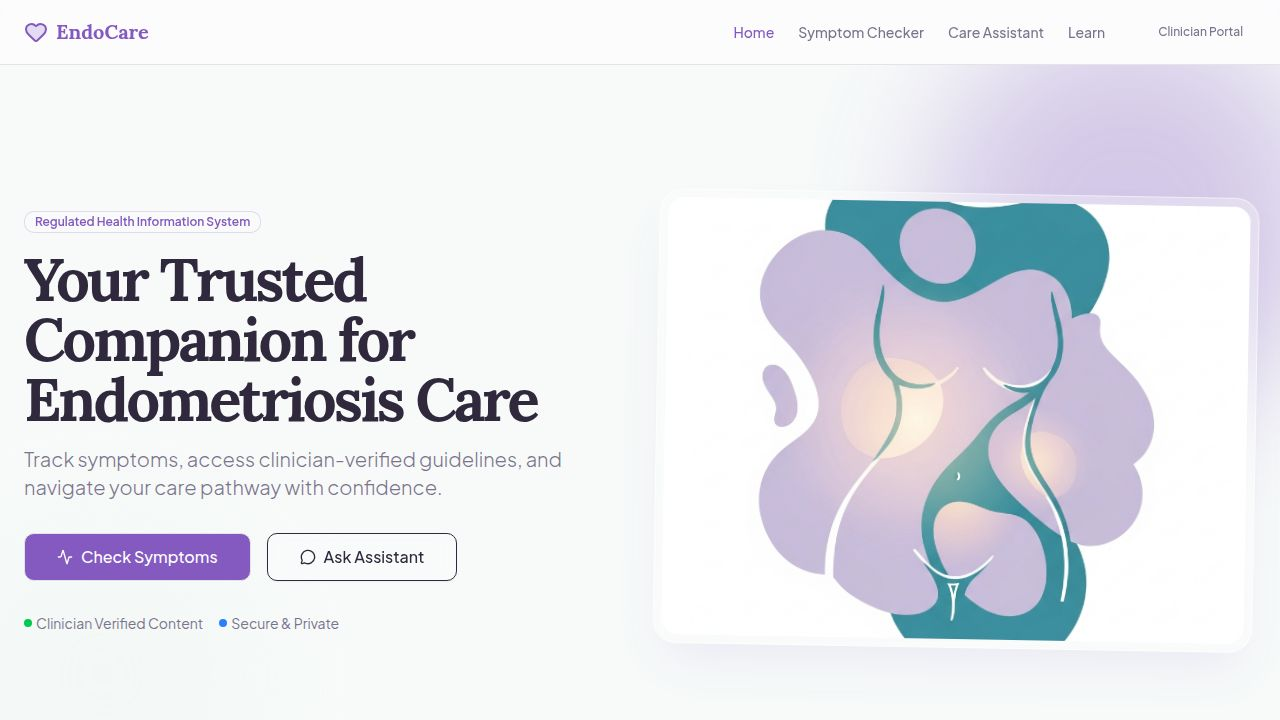
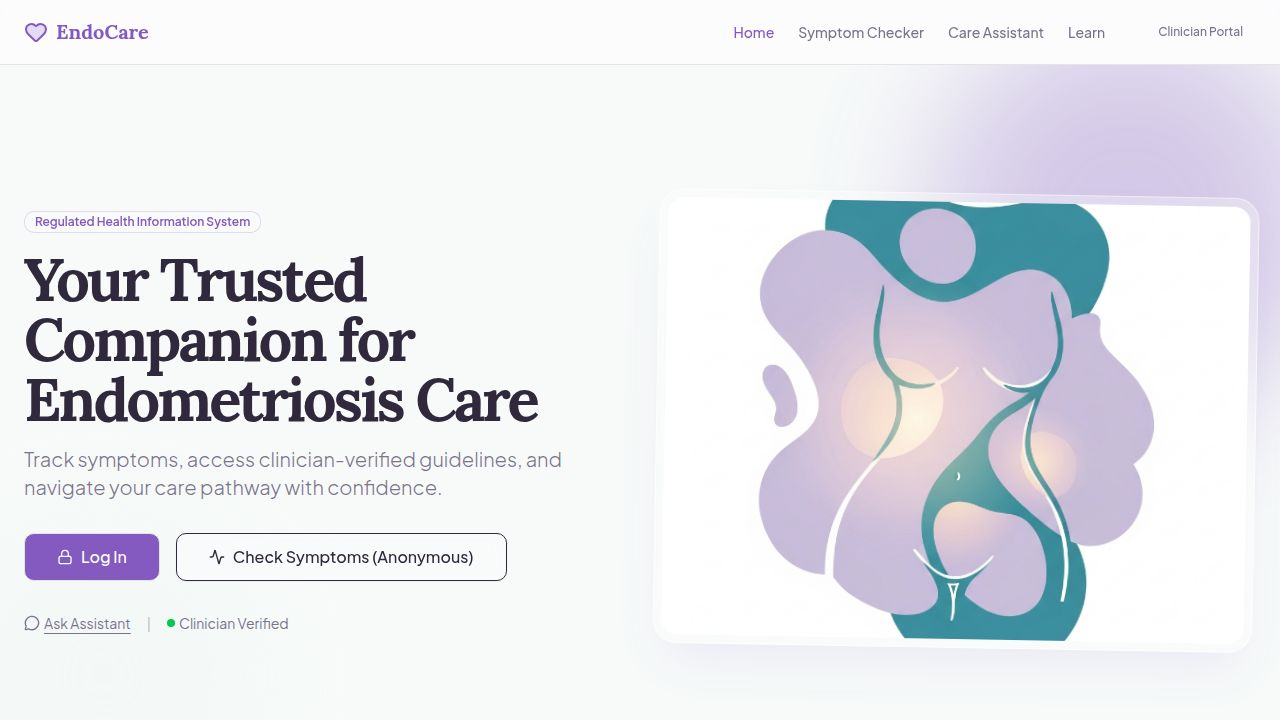
Update clinician dashboard to focus on content and patient insights
Remove symptom calendar and GP summary, add a chart for most asked AI topics, and update content governance to include website URLs.

Replit-Commit-Author: Agent
Replit-Commit-Session-Id: 94342c9f-cecd-45cb-8c7e-70c3b24a7c3e
Replit-Commit-Checkpoint-Type: full_checkpoint
Replit-Commit-Event-Id: 3dba33ec-a466-4213-8505-4dd0c46dcd30
Replit-Commit-Screenshot-Url: https://storage.googleapis.com/screenshot-production-us-central1/f57d9400-adc5-46e2-a29b-3086c1e1310c/94342c9f-cecd-45cb-8c7e-70c3b24a7c3e/vmOWVS5
Replit-Helium-Checkpoint-Created: true

Changed region(s): [[0.0312, 0.7333, 0.375, 0.825], [0.0, 0.8556, 0.2812, 0.8861]]

diff --git a/client/src/pages/dashboard.tsx b/client/src/pages/dashboard.tsx
@@ -12,20 +12,22 @@ import {
   Tooltip, 
   ResponsiveContainer,
   LineChart,
-  Line
+  Line,
+  Cell,
+  BarChart,
+  Bar
 } from "recharts";
-import { AlertCircle, FileText, CheckCircle2, Clock, Upload, Filter, Plus, ShieldCheck, History } from "lucide-react";
-import { SymptomCalendar } from "@/components/symptom-calendar";
-import { GPSummaryGenerator } from "@/components/gp-summary";
+import { AlertCircle, FileText, CheckCircle2, Clock, Upload, Filter, Plus, ShieldCheck, History, Globe, Link as LinkIcon, HelpCircle } from "lucide-react";
+import { Input } from "@/components/ui/input";
+import { Label } from "@/components/ui/label";
+import { Dialog, DialogContent, DialogDescription, DialogFooter, DialogHeader, DialogTitle, DialogTrigger } from "@/components/ui/dialog";
 
-const DATA_SYMPTOMS = [
-  { name: "Mon", pain: 4, queries: 12 },
-  { name: "Tue", pain: 3, queries: 19 },
-  { name: "Wed", pain: 7, queries: 25 },
-  { name: "Thu", pain: 5, queries: 18 },
-  { name: "Fri", pain: 6, queries: 22 },
-  { name: "Sat", pain: 8, queries: 15 },
-  { name: "Sun", pain: 6, queries: 10 },
+const DATA_TOPICS = [
+  { name: "Pain Mgmt", count: 45 },
+  { name: "Diet", count: 32 },
+  { name: "Fertility", count: 28 },
+  { name: "Surgery", count: 15 },
+  { name: "Diagnosis", count: 12 },
 ];
 
 const REVIEW_QUEUE = [
@@ -38,7 +40,7 @@ const CONTENT_CORPUS = [
   { id: "C-001", title: "Endometriosis: Diagnosis and Management (NG73)", version: "2.4", lastUpdated: "2025-11-15", status: "Published", type: "Guideline" },
   { id: "C-002", title: "ESHRE Guideline: Endometriosis", version: "2022.1", lastUpdated: "2023-02-10", status: "Published", type: "Guideline" },
   { id: "C-003", title: "Pelvic Pain Management Pathways", version: "1.2", lastUpdated: "2026-01-20", status: "Draft", type: "Protocol" },
-  { id: "C-004", title: "Patient Leaflet: Understanding Your Cycle", version: "3.0", lastUpdated: "2026-02-01", status: "Published", type: "Leaflet" },
+  { id: "C-004", title: "Endometriosis UK - Information Pack", version: "1.0", lastUpdated: "2026-02-01", status: "Published", type: "Website", url: "https://endometriosis-uk.org" },
   { id: "C-005", title: "Urgent Care Triage Protocols", version: "4.1", lastUpdated: "2026-02-10", status: "Published", type: "Safety" },
 ];
 
@@ -59,7 +61,7 @@ export default function DashboardPage() {
           <div className="flex items-center justify-between">
             <div>
               <h1 className="text-3xl font-serif font-bold text-foreground">Clinician Dashboard</h1>
-              <p className="text-muted-foreground">Overview of content governance and patient engagement metrics.</p>
+              <p className="text-muted-foreground">Overview of content governance and patient insights.</p>
             </div>
             <div className="flex gap-2">
               <Button variant="outline">Export Reports</Button>
@@ -114,43 +116,39 @@ export default function DashboardPage() {
             </Card>
           </div>
 
-          {/* NEW: Patient Tools Section (Calendar & Report) */}
-          <div className="grid gap-6 md:grid-cols-2">
-             <SymptomCalendar />
-             <GPSummaryGenerator />
-          </div>
-
           <div className="grid gap-6 md:grid-cols-2 lg:grid-cols-7">
-            {/* Charts */}
+            {/* AI Insights Chart */}
             <Card className="col-span-4">
               <CardHeader>
-                <CardTitle>Patient Engagement & Symptoms</CardTitle>
-                <CardDescription>Average reported pain levels vs assistant queries over the last 7 days.</CardDescription>
+                <CardTitle className="flex items-center gap-2">
+                  <HelpCircle className="h-5 w-5 text-primary" />
+                  Most Asked Topics
+                </CardTitle>
+                <CardDescription>Top themes from patient AI assistant queries (anonymized).</CardDescription>
               </CardHeader>
               <CardContent className="pl-2">
                 <ResponsiveContainer width="100%" height={350}>
-                  <LineChart data={DATA_SYMPTOMS}>
-                    <CartesianGrid strokeDasharray="3 3" vertical={false} stroke="hsl(var(--border))" />
-                    <XAxis 
-                      dataKey="name" 
-                      stroke="#888888" 
-                      fontSize={12} 
-                      tickLine={false} 
-                      axisLine={false} 
-                    />
+                  <BarChart data={DATA_TOPICS} layout="vertical" margin={{ top: 5, right: 30, left: 40, bottom: 5 }}>
+                    <CartesianGrid strokeDasharray="3 3" horizontal={false} stroke="hsl(var(--border))" />
+                    <XAxis type="number" hide />
                     <YAxis 
-                      stroke="#888888" 
-                      fontSize={12} 
-                      tickLine={false} 
-                      axisLine={false} 
-                      tickFormatter={(value) => `${value}`} 
+                      dataKey="name" 
+                      type="category" 
+                      width={100}
+                      tick={{ fill: 'hsl(var(--foreground))', fontSize: 12 }}
+                      axisLine={false}
+                      tickLine={false}
                     />
                     <Tooltip 
+                      cursor={{ fill: 'hsl(var(--muted)/0.2)' }}
                       contentStyle={{ backgroundColor: 'hsl(var(--card))', borderRadius: '8px', border: '1px solid hsl(var(--border))' }}
                     />
-                    <Line type="monotone" dataKey="pain" stroke="hsl(var(--destructive))" strokeWidth={2} activeDot={{ r: 8 }} name="Avg Pain Level" />
-                    <Line type="monotone" dataKey="queries" stroke="hsl(var(--primary))" strokeWidth={2} name="Assistant Queries" />
-                  </LineChart>
+                    <Bar dataKey="count" fill="hsl(var(--primary))" radius={[0, 4, 4, 0]} barSize={30}>
+                      {DATA_TOPICS.map((entry, index) => (
+                        <Cell key={`cell-${index}`} fill={index === 0 ? "hsl(var(--primary))" : "hsl(var(--primary)/0.6)"} />
+                      ))}
+                    </Bar>
+                  </BarChart>
                 </ResponsiveContainer>
               </CardContent>
             </Card>
@@ -203,17 +201,51 @@ export default function DashboardPage() {
               <Button variant="outline">
                  <Filter className="mr-2 h-4 w-4" /> Filter
               </Button>
-              <Button>
-                <Upload className="mr-2 h-4 w-4" />
-                Upload Document
-              </Button>
+              
+              <Dialog>
+                <DialogTrigger asChild>
+                  <Button>
+                    <Plus className="mr-2 h-4 w-4" />
+                    Add Resource
+                  </Button>
+                </DialogTrigger>
+                <DialogContent>
+                  <DialogHeader>
+                    <DialogTitle>Add New Content</DialogTitle>
+                    <DialogDescription>
+                      Upload a document or add a URL to the knowledge base.
+                    </DialogDescription>
+                  </DialogHeader>
+                  <div className="grid gap-4 py-4">
+                    <div className="grid grid-cols-4 items-center gap-4">
+                      <Label htmlFor="type" className="text-right">Type</Label>
+                      <select id="type" className="col-span-3 flex h-9 w-full rounded-md border border-input bg-transparent px-3 py-1 text-sm shadow-sm transition-colors file:border-0 file:bg-transparent file:text-sm file:font-medium placeholder:text-muted-foreground focus-visible:outline-none focus-visible:ring-1 focus-visible:ring-ring disabled:cursor-not-allowed disabled:opacity-50">
+                        <option>Website URL</option>
+                        <option>PDF Document</option>
+                        <option>Guideline Text</option>
+                      </select>
+                    </div>
+                    <div className="grid grid-cols-4 items-center gap-4">
+                      <Label htmlFor="title" className="text-right">Title</Label>
+                      <Input id="title" placeholder="e.g. Endometriosis UK Nutrition" className="col-span-3" />
+                    </div>
+                    <div className="grid grid-cols-4 items-center gap-4">
+                      <Label htmlFor="url" className="text-right">URL</Label>
+                      <Input id="url" placeholder="https://..." className="col-span-3" />
+                    </div>
+                  </div>
+                  <DialogFooter>
+                    <Button type="submit">Add to Corpus</Button>
+                  </DialogFooter>
+                </DialogContent>
+              </Dialog>
             </div>
           </div>
 
           <Card>
             <CardHeader>
               <CardTitle>Corpus Library</CardTitle>
-              <CardDescription>Current indexed documents available to the Patient Assistant RAG system.</CardDescription>
+              <CardDescription>Current indexed documents and websites available to the Patient Assistant RAG system.</CardDescription>
             </CardHeader>
             <CardContent>
               <Table>
@@ -232,9 +264,17 @@ export default function DashboardPage() {
                   {CONTENT_CORPUS.map((doc) => (
                     <TableRow key={doc.id}>
                       <TableCell className="font-mono text-xs">{doc.id}</TableCell>
-                      <TableCell className="font-medium">{doc.title}</TableCell>
+                      <TableCell className="font-medium">
+                        <div className="flex flex-col">
+                           <span>{doc.title}</span>
+                           {doc.url && <a href={doc.url} target="_blank" className="text-xs text-muted-foreground flex items-center hover:underline"><LinkIcon className="h-3 w-3 mr-1"/> {doc.url}</a>}
+                        </div>
+                      </TableCell>
                       <TableCell>
-                        <Badge variant="outline">{doc.type}</Badge>
+                        <Badge variant="outline" className="gap-1">
+                          {doc.type === 'Website' ? <Globe className="h-3 w-3" /> : <FileText className="h-3 w-3" />}
+                          {doc.type}
+                        </Badge>
                       </TableCell>
                       <TableCell>{doc.version}</TableCell>
                       <TableCell>{doc.lastUpdated}</TableCell>